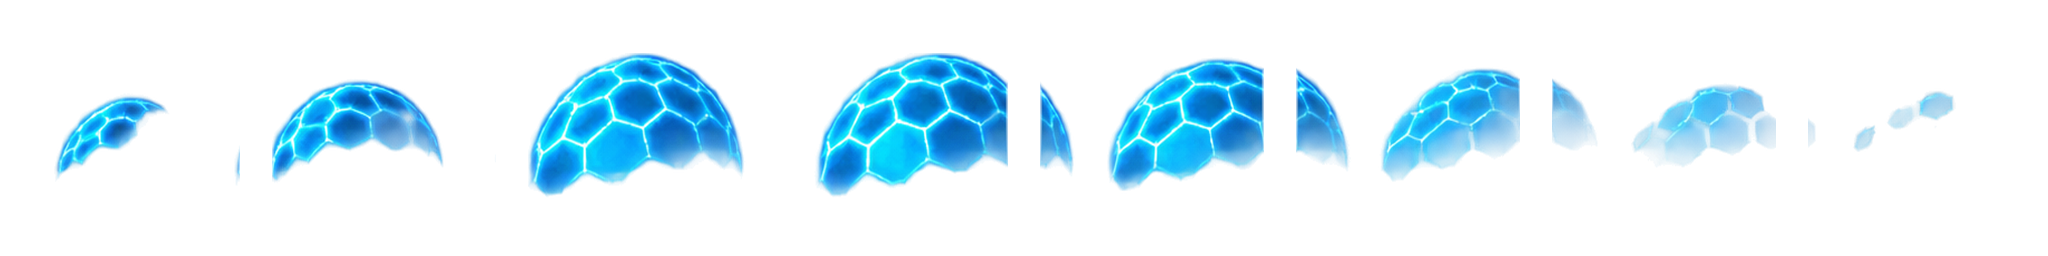
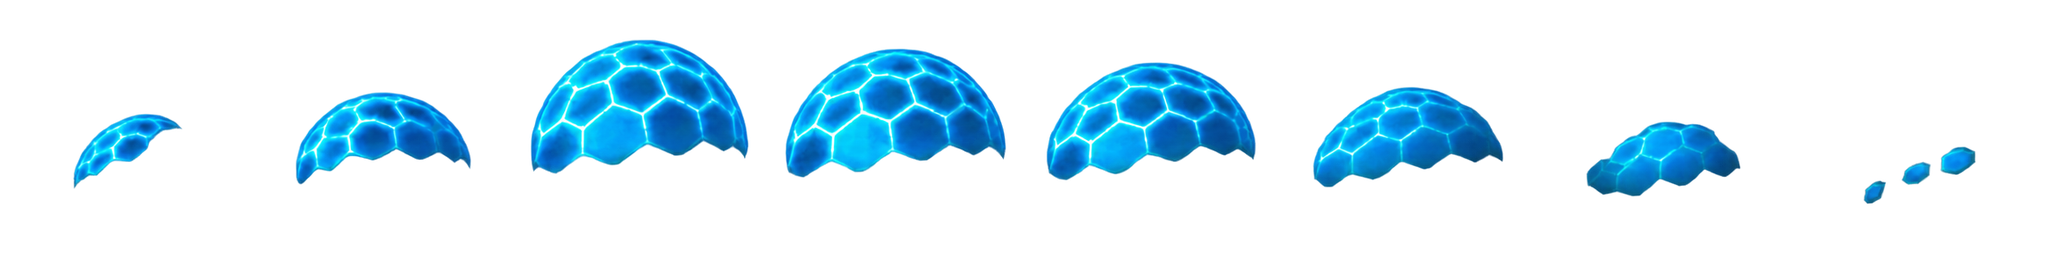
VFX: recut 48 clean RGBA sprite frames and show active buffs/status effects on combatants

Changed region(s): [[0.125, 0.1562, 0.9688, 0.7812], [0.0, 0.375, 0.0938, 0.7188]]

diff --git a/index.html b/index.html
@@ -5321,7 +5321,7 @@ const Z_UPGRADE_VFX_PRELOAD=Promise.all(Z_UPGRADE_VFX_NAMES.map(k=>new Promise((
  im.onload=()=>{entry.ready=im.naturalWidth===2048&&im.naturalHeight===256;
   if(entry.ready)resolve(k);else{entry.error=true;reject(Error('강화 비트맵 크기 오류: '+k));}};
  im.onerror=()=>{entry.error=true;reject(Error('강화 비트맵 누락: '+k));};
- im.src='./assets/vfx/project_z_upgrade_'+k+'_8f.png?v=20261102-independent-six-v1';
+ im.src='./assets/vfx/project_z_upgrade_'+k+'_8f.png?v=20261102-clean-alpha-active-v2';
 }))).then(()=>null,e=>e);
 window.__zUpgradeVfxStatus=()=>Object.fromEntries(Z_UPGRADE_VFX_NAMES.map(k=>[k,{
  ready:Z_UPGRADE_VFX[k].ready,error:Z_UPGRADE_VFX[k].error,drawn:Z_UPGRADE_VFX[k].drawn
@@ -5357,12 +5357,12 @@ function combatStrengthFx(e,critical){
  const power=modRank('power'),impact=modRank('impact'),momentum=modRank('momentum');
  if(power)spawnUpgradeVfx('power',e.x,e.y-115,.91+power*.12,p.facing,-.04,.33);
  if(impact){
-  spawnModBitmap('red',e.x+p.facing*23,e.y-112,1.02+impact*.09,'saturate(1.45)',.25);
+  spawnUpgradeVfx('crit',e.x+p.facing*23,e.y-112,.52+impact*.08,p.facing,0,.23);
   screenShake=Math.max(screenShake,Math.min(22,12+impact*1.3));
  }
  if(momentum&&p.hits>=3){
   const intensity=Math.min(1.6,.70+p.hits*.065+momentum*.07);
-  spawnModBitmap('gold',e.x,e.y-111,intensity,'saturate(1.1)',.19);
+  spawnUpgradeVfx('power',e.x,e.y-111,intensity*.63,p.facing,0,.24);
  }
  if(critical){
   spawnUpgradeVfx('crit',e.x,e.y-129,1.10+modRank('crit')*.10,p.facing,-.04,.35);
@@ -5386,39 +5386,79 @@ function createModImpact(e){
  }
 }
 const MOD_STATUS_STATES=[['burn','fire'],['shock','shock'],['bleed','bleed'],['freeze','ice']];
+
+// Painted 8-frame upgrade effects can also be sampled as lightweight looping
+// frames while the underlying gameplay status is active. Never draw vector FX.
+const Z_ENEMY_STATUS_VFX=[
+ {status:'shock',sprite:'chain',power:'shockPower',offset:132,scale:0.57},
+ {status:'burn',sprite:'nova',power:'burnPower',offset:110,scale:0.59},
+ {status:'bleed',sprite:'leech',power:'bleedPower',offset:115,scale:0.55},
+ {status:'freeze',sprite:'guard',power:'freezePower',offset:128,scale:0.65}
+];
+function drawUpgradeVfxLoop(name,x,y,width,opacity,cycle,dir=1){
+ const entry=Z_UPGRADE_VFX[name],im=entry?.image;
+ if(!entry?.ready||!im?.complete||!im.naturalWidth)return false;
+ const frame=Math.min(7,Math.floor((((cycle%1)+1)%1)*8));
+ const cw=im.naturalWidth/8,displayH=width*(im.naturalHeight/cw);
+ ctx.save();ctx.globalAlpha=clamp(opacity,0,.82);
+ ctx.translate(x,y);ctx.scale(dir||1,1);
+ ctx.drawImage(im,frame*cw,0,cw,im.naturalHeight,-width*.5,-displayH*.5,width,displayH);
+ ctx.restore();entry.drawn++;return true;
+}
 function drawModEnergy(){
- const left=cameraX-230,right=cameraX+W+230;
+ const left=cameraX-180,right=cameraX+W+180;
+ // Each afflicted opponent keeps a visible painted energy animation, tied to
+ // the actual remaining burn/shock/bleed/freeze timer, including during stagger.
+ // Up to two layers per enemy and ten total in view avoid overdraw in crowds.
+ let painted=0;
  for(const e of enemies){
-  if(e.dead||e.x<left||e.x>right)continue;
-  for(const [status,mod] of MOD_STATUS_STATES){
-   if(!(e[status]>0))continue;
-   const meta=MOD_META[mod],image=img[meta.source];
-   if(!image?.complete||!image.naturalWidth)continue;
-   const stacks=Math.min(6,Math.max(1,e[mod==='ice'?'freezePower':mod==='shock'?'shockPower':mod==='fire'?'burnPower':'bleedPower']||1));
-   const size=(mod==='shock'?92:mod==='ice'?85:mod==='fire'?88:76)+stacks*5;
-   const offset=mod==='ice'?82:mod==='bleed'?114:mod==='shock'?136:138;
-   const flutter=mod==='fire'?Math.sin(time*11+e.slot)*8:mod==='shock'?Math.sin(time*27+e.slot)*4:0;
-   const pulse=mod==='shock'?.15+.15*Math.abs(Math.sin(time*21+e.slot)):
-     mod==='fire'?.14+.08*Math.abs(Math.sin(time*11+e.slot)):
-     mod==='bleed'?.13+.05*Math.sin(time*8+e.slot):.15+.04*Math.sin(time*6+e.slot);
-   ctx.save();ctx.globalAlpha=pulse;ctx.filter=meta.filter;
-   ctx.drawImage(image,e.x-size/2,e.y-offset+flutter-size/2,size,size);
-   ctx.restore();
+  if(e.dead||e.x<left||e.x>right||painted>=10)continue;
+  const active=Z_ENEMY_STATUS_VFX.filter(s=>e[s.status]>0);
+  if(!active.length)continue;
+  const max=Math.min(2,active.length,10-painted);
+  for(let i=0;i<max;i++){
+   const index=(Math.floor(time*1.25+(e.slot||0))+i)%active.length;
+   const state=active[index],rank=Math.min(6,e[state.power]||1);
+   const width=(164+Math.min(rank,6)*8)*state.scale;
+   const cycle=time*(state.status==='shock'?1.9:state.status==='burn'?1.35:1.05)+
+    (e.slot||0)*.13+i*.19;
+   const pulse=.38+.14*Math.abs(Math.sin(time*4.1+(e.slot||0)+i));
+   const x=e.renderX??e.x,y=(e.renderY??e.y)-(e.z||0)-state.offset+i*12;
+   if(drawUpgradeVfxLoop(state.sprite,x,y,width,pulse,cycle,e.face||1))painted++;
   }
  }
+ // A brief contact pop still uses the existing icon art, but it does not
+ // replace the persistent per-enemy effect while damage/status is active.
  for(const ef of attributeFx){
   if(ef.x<left||ef.x>right)continue;
   const meta=MOD_META[ef.mod],image=img[meta.source];
   if(!image?.complete||!image.naturalWidth)continue;
   const portion=clamp(ef.life/ef.maxLife,0,1);
-  const size=(1.45-portion*.5)*126*ef.scale;
-  ctx.save();ctx.globalAlpha=portion*.86;ctx.filter=meta.filter;
+  const size=(1.45-portion*.5)*100*ef.scale;
+  ctx.save();ctx.globalAlpha=portion*.54;ctx.filter=meta.filter;
   ctx.translate(ef.x,ef.y);ctx.rotate(ef.rotation);
   ctx.drawImage(image,-size/2,-size/2,size,size);ctx.restore();
  }
 }
 function drawHeroModAura(x,y,z){
  if(!p.mods.length)return;
+ // Persistent but restrained feedback for defensive / mobility modules.
+ // The bitmap stays behind the hero; heavy flashes happen only on contact.
+ if(modRank('guard')){
+  const cycle=(time+1.0)%3.2;
+  if(cycle<.66)drawUpgradeVfxLoop('guard',x,y-z-125,178+modRank('guard')*6,
+   (.20+.08*Math.sin(cycle/0.66*Math.PI))*(1-cycle/.75),cycle/.66,p.facing);
+ }
+ if(modRank('haste')&&(p.attack>0||p.running||Math.abs(p.vx||0)>90)){
+  const cycle=(time+.5)%1.75;
+  if(cycle<.35)drawUpgradeVfxLoop('chain',x-p.facing*42,y-z-98,82,
+   .27*(1-cycle/.39),cycle/.35,p.facing);
+ }
+ if(modRank('regen')&&p.hp<p.maxHp){
+  const cycle=time%3.6;
+  if(cycle<.53)drawUpgradeVfxLoop('guard',x,y-z-112,108,
+   .17*(1-cycle/.6),cycle/.53,p.facing);
+ }
  for(const [i,mod] of [...new Set(p.mods)].filter(k=>['fire','shock','bleed','ice'].includes(k)).entries()){
   const meta=MOD_META[mod],a=img[meta.source];if(!a?.complete||!a.naturalWidth)continue;
   const sz=125+(Math.sin(time*5+i)*11);
@@ -6509,8 +6549,8 @@ function startAttack(){
  const impactStep=isKick?1.20:move==='superman_punch'?1.14:1;
  p.attackDriveTotal=Math.min(315,Math.round((advance[move]||32)*(hasInput?3.12:2.83)*impactStep*(1+modRank('rush')*.2)));
  p.attackDriveRemaining=p.attackDriveTotal;
- if(modRank('rush'))spawnModLink('blue',p.x-p.facing*56,p.y-118,p.x+p.facing*75,p.y-118,.75+modRank('rush')*.06,'brightness(1.2)',.19);
- if(modRank('haste'))spawnModBitmap('blue',p.x-p.facing*24,p.y-94,.44+modRank('haste')*.06,'brightness(1.3)',.17);
+ if(modRank('rush'))spawnUpgradeVfx('chain',p.x-p.facing*48,p.y-115,.50+modRank('rush')*.055,p.facing,-.18,.23);
+ if(modRank('haste'))spawnUpgradeVfx('chain',p.x-p.facing*24,p.y-94,.46+modRank('haste')*.055,p.facing,-.12,.22);
  p.attack=p.attackDuration;p.animAge=0;p.hitDone=false;p.glow=.18;p.comboWindow=.95;
  sound('attack');
  // Every basic move cycles its mechanism before the timed gunshot.
@@ -7543,7 +7583,7 @@ function control(dt,pad){
  if(regen&&p.hp>wasHp){
   p.regenPulseClock=(p.regenPulseClock||0)+dt;
   if(p.regenPulseClock>=.9){p.regenPulseClock=0;
-   spawnModBitmap('blue',p.x,p.y-137,.70+regen*.08,'hue-rotate(245deg) saturate(.8)',.30);
+   spawnUpgradeVfx('guard',p.x,p.y-130,.46+regen*.065,p.facing,0,.36);
   }
  }else p.regenPulseClock=0;
  p.novaCooldown=Math.max(0,(p.novaCooldown||0)-dt);

diff --git a/play-fixed-20261102.html b/play-fixed-20261102.html
@@ -5322,7 +5322,7 @@ const Z_UPGRADE_VFX_PRELOAD=Promise.all(Z_UPGRADE_VFX_NAMES.map(k=>new Promise((
  im.onload=()=>{entry.ready=im.naturalWidth===2048&&im.naturalHeight===256;
   if(entry.ready)resolve(k);else{entry.error=true;reject(Error('강화 비트맵 크기 오류: '+k));}};
  im.onerror=()=>{entry.error=true;reject(Error('강화 비트맵 누락: '+k));};
- im.src='./assets/vfx/project_z_upgrade_'+k+'_8f.png?v=20261102-independent-six-v1';
+ im.src='./assets/vfx/project_z_upgrade_'+k+'_8f.png?v=20261102-clean-alpha-active-v2';
 }))).then(()=>null,e=>e);
 window.__zUpgradeVfxStatus=()=>Object.fromEntries(Z_UPGRADE_VFX_NAMES.map(k=>[k,{
  ready:Z_UPGRADE_VFX[k].ready,error:Z_UPGRADE_VFX[k].error,drawn:Z_UPGRADE_VFX[k].drawn
@@ -5358,12 +5358,12 @@ function combatStrengthFx(e,critical){
  const power=modRank('power'),impact=modRank('impact'),momentum=modRank('momentum');
  if(power)spawnUpgradeVfx('power',e.x,e.y-115,.91+power*.12,p.facing,-.04,.33);
  if(impact){
-  spawnModBitmap('red',e.x+p.facing*23,e.y-112,1.02+impact*.09,'saturate(1.45)',.25);
+  spawnUpgradeVfx('crit',e.x+p.facing*23,e.y-112,.52+impact*.08,p.facing,0,.23);
   screenShake=Math.max(screenShake,Math.min(22,12+impact*1.3));
  }
  if(momentum&&p.hits>=3){
   const intensity=Math.min(1.6,.70+p.hits*.065+momentum*.07);
-  spawnModBitmap('gold',e.x,e.y-111,intensity,'saturate(1.1)',.19);
+  spawnUpgradeVfx('power',e.x,e.y-111,intensity*.63,p.facing,0,.24);
  }
  if(critical){
   spawnUpgradeVfx('crit',e.x,e.y-129,1.10+modRank('crit')*.10,p.facing,-.04,.35);
@@ -5387,39 +5387,79 @@ function createModImpact(e){
  }
 }
 const MOD_STATUS_STATES=[['burn','fire'],['shock','shock'],['bleed','bleed'],['freeze','ice']];
+
+// Painted 8-frame upgrade effects can also be sampled as lightweight looping
+// frames while the underlying gameplay status is active. Never draw vector FX.
+const Z_ENEMY_STATUS_VFX=[
+ {status:'shock',sprite:'chain',power:'shockPower',offset:132,scale:0.57},
+ {status:'burn',sprite:'nova',power:'burnPower',offset:110,scale:0.59},
+ {status:'bleed',sprite:'leech',power:'bleedPower',offset:115,scale:0.55},
+ {status:'freeze',sprite:'guard',power:'freezePower',offset:128,scale:0.65}
+];
+function drawUpgradeVfxLoop(name,x,y,width,opacity,cycle,dir=1){
+ const entry=Z_UPGRADE_VFX[name],im=entry?.image;
+ if(!entry?.ready||!im?.complete||!im.naturalWidth)return false;
+ const frame=Math.min(7,Math.floor((((cycle%1)+1)%1)*8));
+ const cw=im.naturalWidth/8,displayH=width*(im.naturalHeight/cw);
+ ctx.save();ctx.globalAlpha=clamp(opacity,0,.82);
+ ctx.translate(x,y);ctx.scale(dir||1,1);
+ ctx.drawImage(im,frame*cw,0,cw,im.naturalHeight,-width*.5,-displayH*.5,width,displayH);
+ ctx.restore();entry.drawn++;return true;
+}
 function drawModEnergy(){
- const left=cameraX-230,right=cameraX+W+230;
+ const left=cameraX-180,right=cameraX+W+180;
+ // Each afflicted opponent keeps a visible painted energy animation, tied to
+ // the actual remaining burn/shock/bleed/freeze timer, including during stagger.
+ // Up to two layers per enemy and ten total in view avoid overdraw in crowds.
+ let painted=0;
  for(const e of enemies){
-  if(e.dead||e.x<left||e.x>right)continue;
-  for(const [status,mod] of MOD_STATUS_STATES){
-   if(!(e[status]>0))continue;
-   const meta=MOD_META[mod],image=img[meta.source];
-   if(!image?.complete||!image.naturalWidth)continue;
-   const stacks=Math.min(6,Math.max(1,e[mod==='ice'?'freezePower':mod==='shock'?'shockPower':mod==='fire'?'burnPower':'bleedPower']||1));
-   const size=(mod==='shock'?92:mod==='ice'?85:mod==='fire'?88:76)+stacks*5;
-   const offset=mod==='ice'?82:mod==='bleed'?114:mod==='shock'?136:138;
-   const flutter=mod==='fire'?Math.sin(time*11+e.slot)*8:mod==='shock'?Math.sin(time*27+e.slot)*4:0;
-   const pulse=mod==='shock'?.15+.15*Math.abs(Math.sin(time*21+e.slot)):
-     mod==='fire'?.14+.08*Math.abs(Math.sin(time*11+e.slot)):
-     mod==='bleed'?.13+.05*Math.sin(time*8+e.slot):.15+.04*Math.sin(time*6+e.slot);
-   ctx.save();ctx.globalAlpha=pulse;ctx.filter=meta.filter;
-   ctx.drawImage(image,e.x-size/2,e.y-offset+flutter-size/2,size,size);
-   ctx.restore();
+  if(e.dead||e.x<left||e.x>right||painted>=10)continue;
+  const active=Z_ENEMY_STATUS_VFX.filter(s=>e[s.status]>0);
+  if(!active.length)continue;
+  const max=Math.min(2,active.length,10-painted);
+  for(let i=0;i<max;i++){
+   const index=(Math.floor(time*1.25+(e.slot||0))+i)%active.length;
+   const state=active[index],rank=Math.min(6,e[state.power]||1);
+   const width=(164+Math.min(rank,6)*8)*state.scale;
+   const cycle=time*(state.status==='shock'?1.9:state.status==='burn'?1.35:1.05)+
+    (e.slot||0)*.13+i*.19;
+   const pulse=.38+.14*Math.abs(Math.sin(time*4.1+(e.slot||0)+i));
+   const x=e.renderX??e.x,y=(e.renderY??e.y)-(e.z||0)-state.offset+i*12;
+   if(drawUpgradeVfxLoop(state.sprite,x,y,width,pulse,cycle,e.face||1))painted++;
   }
  }
+ // A brief contact pop still uses the existing icon art, but it does not
+ // replace the persistent per-enemy effect while damage/status is active.
  for(const ef of attributeFx){
   if(ef.x<left||ef.x>right)continue;
   const meta=MOD_META[ef.mod],image=img[meta.source];
   if(!image?.complete||!image.naturalWidth)continue;
   const portion=clamp(ef.life/ef.maxLife,0,1);
-  const size=(1.45-portion*.5)*126*ef.scale;
-  ctx.save();ctx.globalAlpha=portion*.86;ctx.filter=meta.filter;
+  const size=(1.45-portion*.5)*100*ef.scale;
+  ctx.save();ctx.globalAlpha=portion*.54;ctx.filter=meta.filter;
   ctx.translate(ef.x,ef.y);ctx.rotate(ef.rotation);
   ctx.drawImage(image,-size/2,-size/2,size,size);ctx.restore();
  }
 }
 function drawHeroModAura(x,y,z){
  if(!p.mods.length)return;
+ // Persistent but restrained feedback for defensive / mobility modules.
+ // The bitmap stays behind the hero; heavy flashes happen only on contact.
+ if(modRank('guard')){
+  const cycle=(time+1.0)%3.2;
+  if(cycle<.66)drawUpgradeVfxLoop('guard',x,y-z-125,178+modRank('guard')*6,
+   (.20+.08*Math.sin(cycle/0.66*Math.PI))*(1-cycle/.75),cycle/.66,p.facing);
+ }
+ if(modRank('haste')&&(p.attack>0||p.running||Math.abs(p.vx||0)>90)){
+  const cycle=(time+.5)%1.75;
+  if(cycle<.35)drawUpgradeVfxLoop('chain',x-p.facing*42,y-z-98,82,
+   .27*(1-cycle/.39),cycle/.35,p.facing);
+ }
+ if(modRank('regen')&&p.hp<p.maxHp){
+  const cycle=time%3.6;
+  if(cycle<.53)drawUpgradeVfxLoop('guard',x,y-z-112,108,
+   .17*(1-cycle/.6),cycle/.53,p.facing);
+ }
  for(const [i,mod] of [...new Set(p.mods)].filter(k=>['fire','shock','bleed','ice'].includes(k)).entries()){
   const meta=MOD_META[mod],a=img[meta.source];if(!a?.complete||!a.naturalWidth)continue;
   const sz=125+(Math.sin(time*5+i)*11);
@@ -6510,8 +6550,8 @@ function startAttack(){
  const impactStep=isKick?1.20:move==='superman_punch'?1.14:1;
  p.attackDriveTotal=Math.min(315,Math.round((advance[move]||32)*(hasInput?3.12:2.83)*impactStep*(1+modRank('rush')*.2)));
  p.attackDriveRemaining=p.attackDriveTotal;
- if(modRank('rush'))spawnModLink('blue',p.x-p.facing*56,p.y-118,p.x+p.facing*75,p.y-118,.75+modRank('rush')*.06,'brightness(1.2)',.19);
- if(modRank('haste'))spawnModBitmap('blue',p.x-p.facing*24,p.y-94,.44+modRank('haste')*.06,'brightness(1.3)',.17);
+ if(modRank('rush'))spawnUpgradeVfx('chain',p.x-p.facing*48,p.y-115,.50+modRank('rush')*.055,p.facing,-.18,.23);
+ if(modRank('haste'))spawnUpgradeVfx('chain',p.x-p.facing*24,p.y-94,.46+modRank('haste')*.055,p.facing,-.12,.22);
  p.attack=p.attackDuration;p.animAge=0;p.hitDone=false;p.glow=.18;p.comboWindow=.95;
  sound('attack');
  // Every basic move cycles its mechanism before the timed gunshot.
@@ -7544,7 +7584,7 @@ function control(dt,pad){
  if(regen&&p.hp>wasHp){
   p.regenPulseClock=(p.regenPulseClock||0)+dt;
   if(p.regenPulseClock>=.9){p.regenPulseClock=0;
-   spawnModBitmap('blue',p.x,p.y-137,.70+regen*.08,'hue-rotate(245deg) saturate(.8)',.30);
+   spawnUpgradeVfx('guard',p.x,p.y-130,.46+regen*.065,p.facing,0,.36);
   }
  }else p.regenPulseClock=0;
  p.novaCooldown=Math.max(0,(p.novaCooldown||0)-dt);
